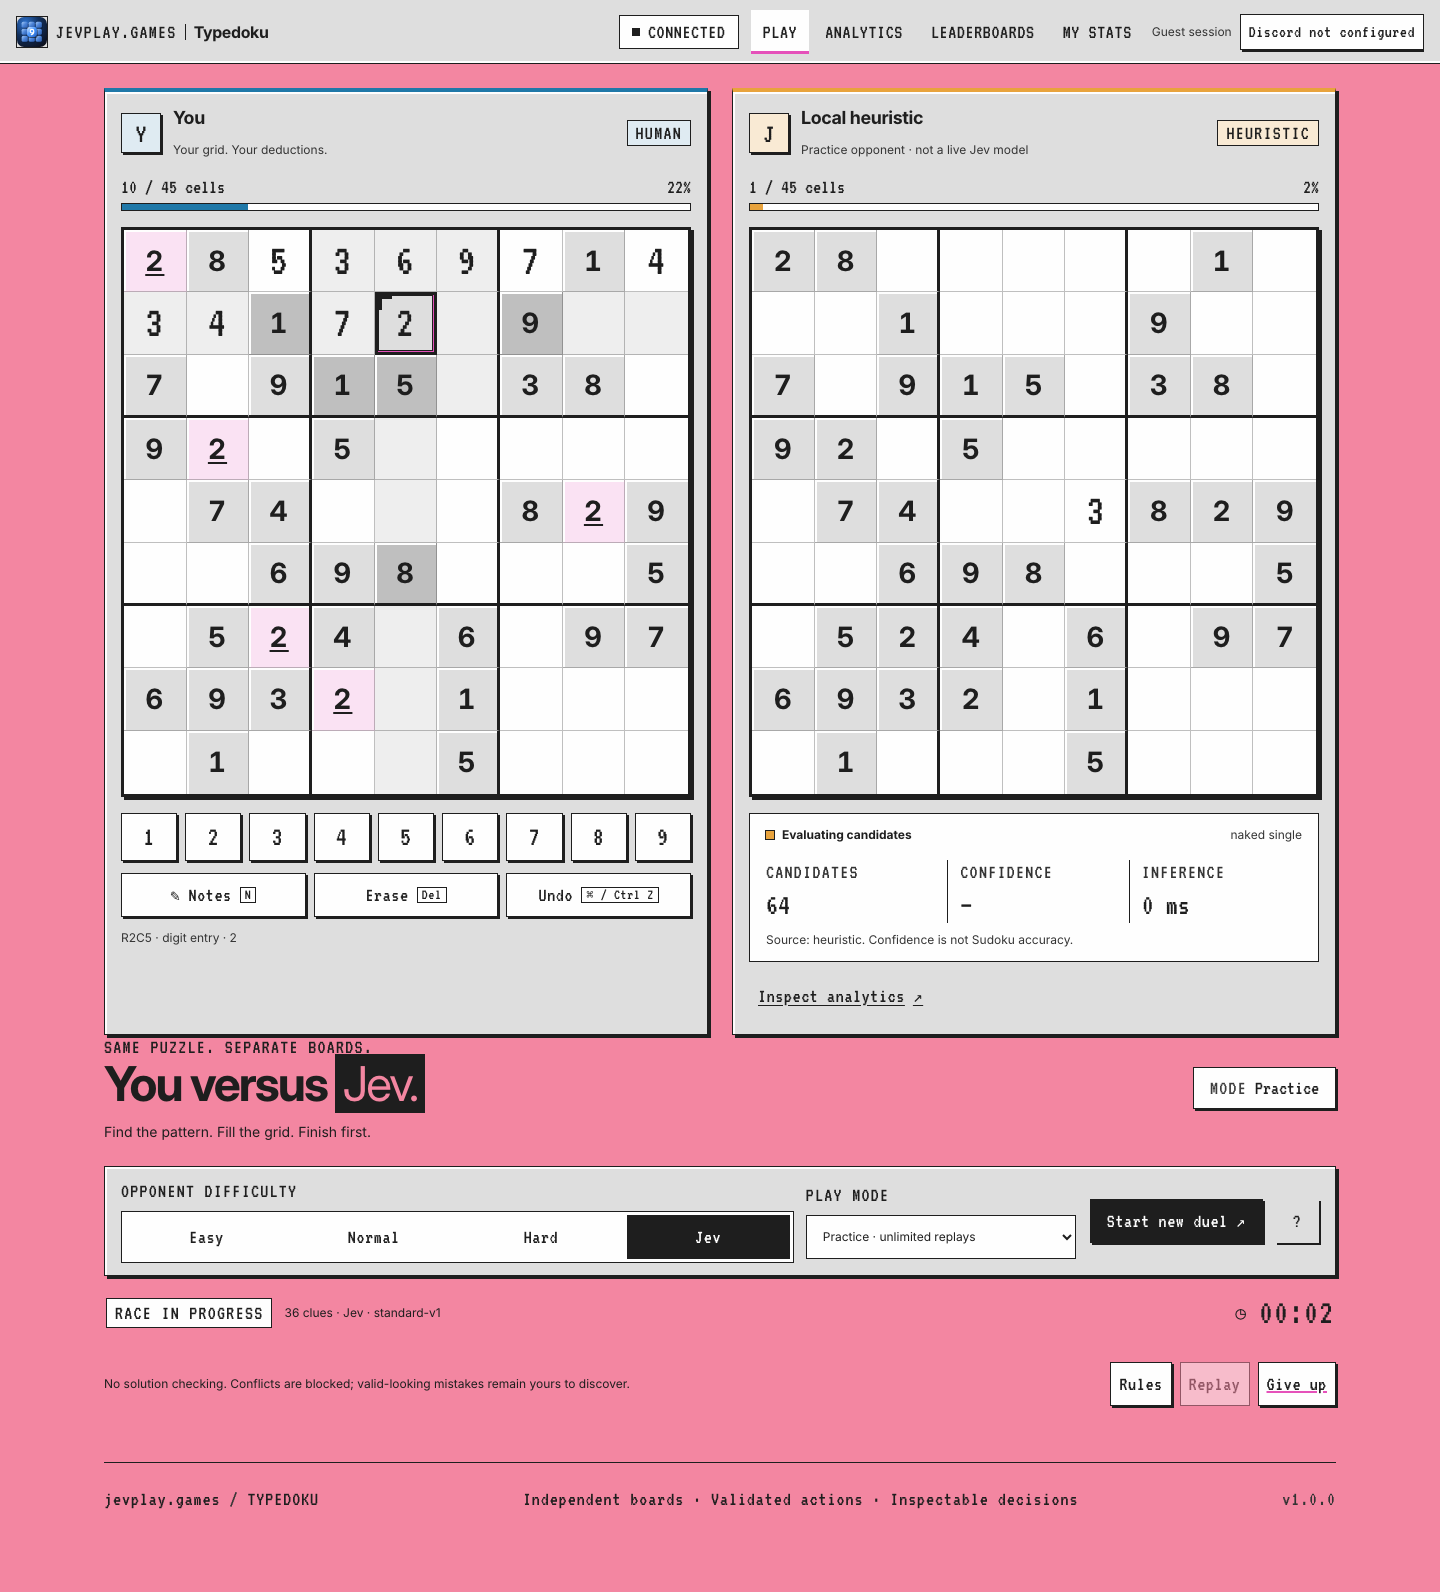
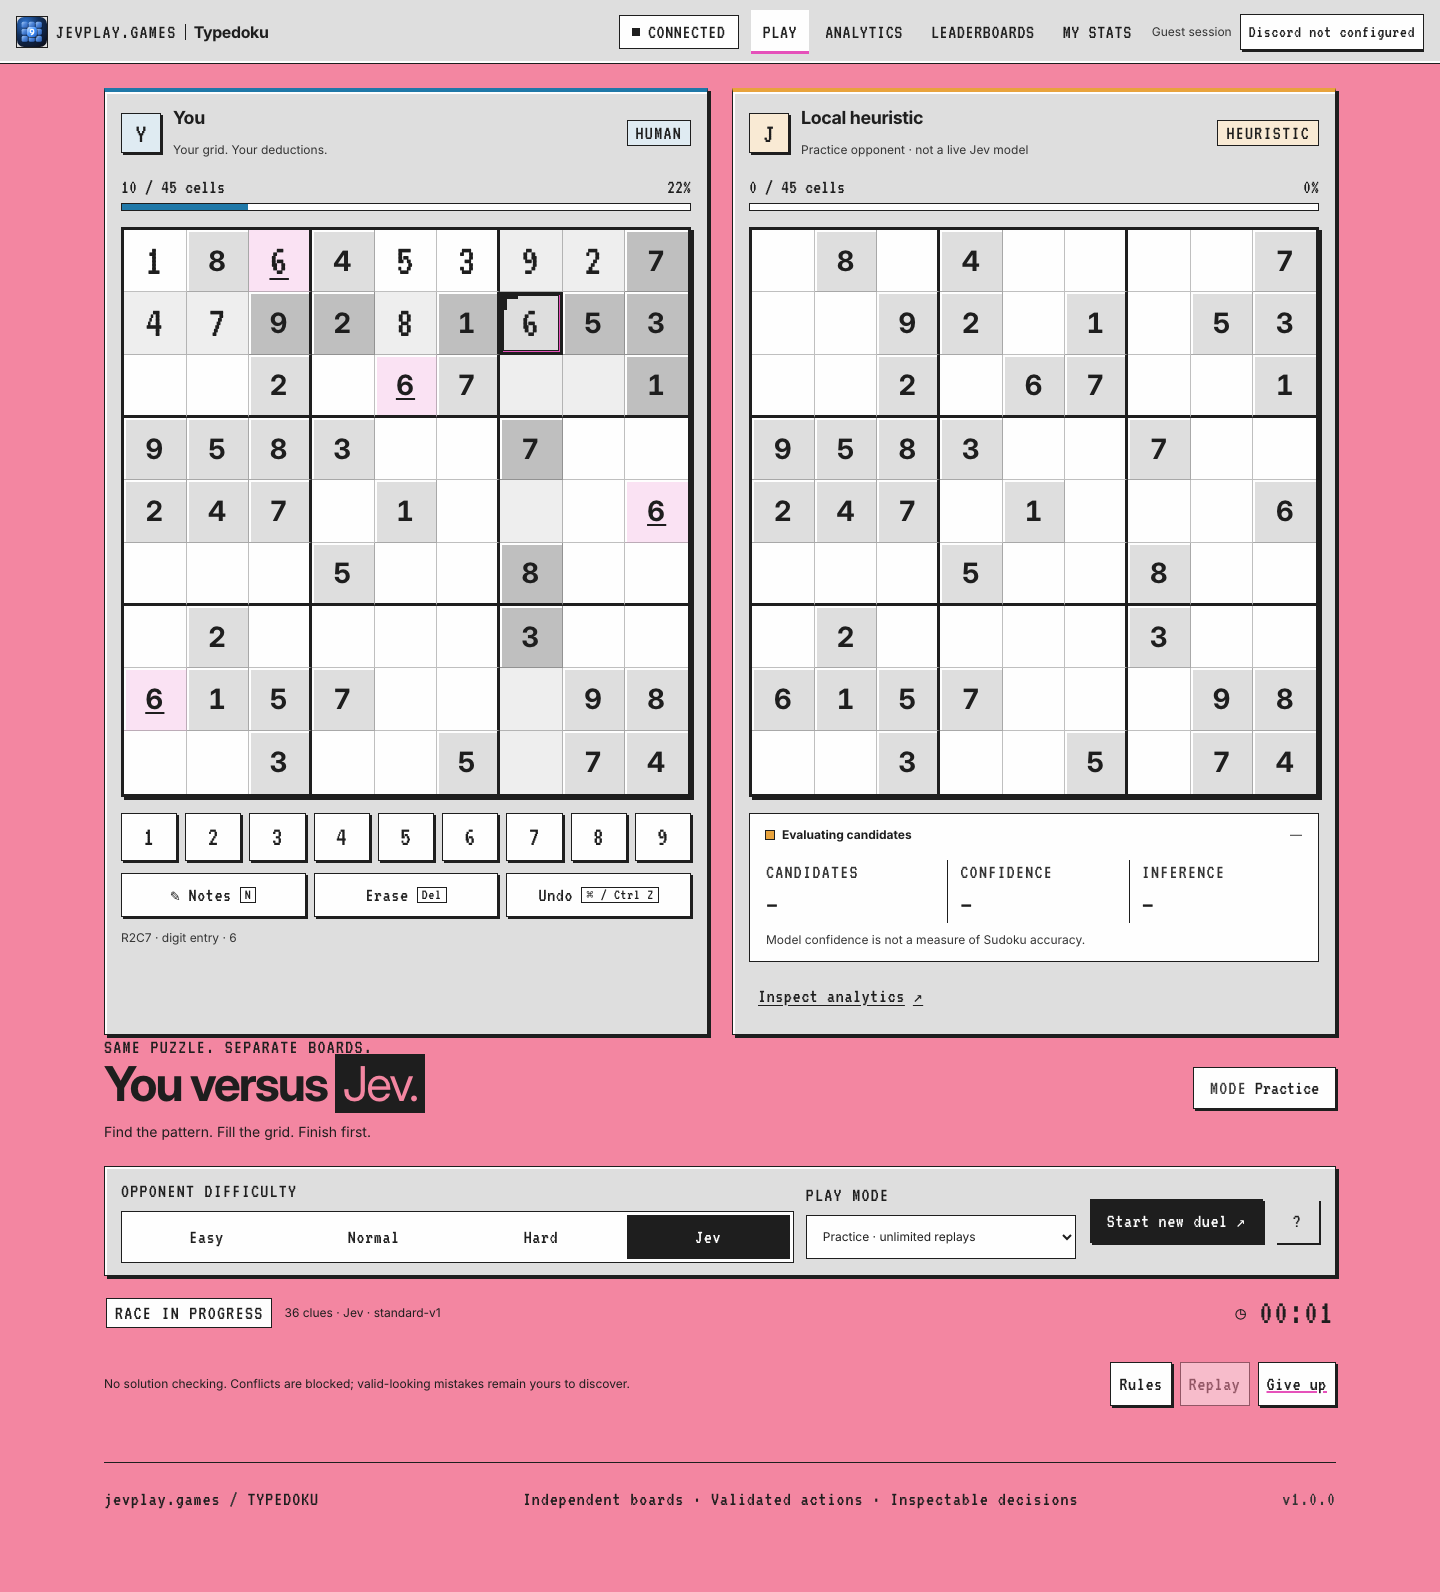
Use the D8 chart colours for every chart series and legend
Orchestrator decision D8 (.rebrand/shared/CHART_COLOURS.md): --chart-human #155A80 and --chart-jev #7A4E0B, defined in
game.css (brand.css untouched). They drive the progress lines, the legend swatches and the heatmap tints. Jev's series stays
dashed; legend and axis text are ink; chart panels are paper windows, never pink. Phone axis labels are enlarged because the
chart's viewBox shrinks to about 0.6 at 390px. Pixel-sampled at 390 and 1440, idle and mid-game: human 7.42:1, Jev 7.13:1,
ink 16.5:1 on the paper panel.

diff --git a/public/game.css b/public/game.css
@@ -7,8 +7,9 @@
   --cell:var(--paper);--cell-given:var(--grey);--cell-line:var(--line-soft);--box-line:var(--ink);
   --cell-peer:color-mix(in srgb,var(--ink) 7%,var(--paper));--cell-given-peer:color-mix(in srgb,var(--ink) 16%,var(--grey));
   --cell-same:color-mix(in srgb,var(--magenta) 16%,var(--paper));
-  /* Chart series on the paper chart window: blue is 4.8:1; raw amber is 2.1:1, so Jev's line is amber deepened with ink (4.5:1). */
-  --chart-human:var(--human);--chart-jev:color-mix(in srgb,var(--jev) 60%,var(--ink));
+  /* Chart series, orchestrator decision D8 (.rebrand/shared/CHART_COLOURS.md): the brand blue/amber fail on grey, so charts use
+     these until the hub brand.css carries them. Jev's series is also dashed; legend text is ink; charts never sit on pink. */
+  --chart-jev:#7A4E0B;--chart-human:#155A80;
   --empty-art:url(/art/empty.svg)
 }
 body{font-size:var(--fs-sm)}button,input,select{font:inherit}
@@ -128,14 +129,16 @@ kbd{font:var(--fs-xs)/1 var(--font-pixel);color:inherit;padding:1px 4px;border:1
 .chart-human{stroke:var(--chart-human);fill:none;stroke-width:3}
 .chart-jev{stroke:var(--chart-jev);fill:none;stroke-width:3;stroke-dasharray:6 3}
 .chart-text{fill:var(--ink);font-family:var(--font-pixel);font-size:var(--fs-sm)}
+/* The chart's 580-unit viewBox shrinks to about 0.6 on a phone; larger user-unit text keeps axis labels near 13px there. */
+@media(max-width:600px){.chart-text{font-size:22px}}
 .chart-legend{display:flex;flex-wrap:wrap;gap:var(--s5);font-size:var(--fs-xs);margin:var(--s2) 0 0;color:var(--ink)}
 .legend-dot{display:inline-block;width:14px;height:4px;background:var(--chart-human);vertical-align:middle;margin-right:var(--s2)}
 .legend-dot.jev{background:linear-gradient(90deg,var(--chart-jev) 0 60%,transparent 60% 100%) 0 0/7px 4px}
 .heatmap{display:grid;grid-template-columns:repeat(9,minmax(0,1fr));gap:2px;max-width:20rem;margin:auto;padding:2px;background:var(--ink);border:1px solid var(--ink)}
 .heatcell{aspect-ratio:1;background:var(--paper);display:grid;place-items:center;border-radius:0;font-family:var(--font-pixel);font-size:var(--fs-md);color:var(--ink)}
-.heat-1{background:color-mix(in srgb,var(--human) 15%,var(--paper))}.heat-2{background:color-mix(in srgb,var(--human) 30%,var(--paper))}
-.heat-3{background:color-mix(in srgb,var(--human) 48%,var(--paper))}
-.heat-4{background:color-mix(in srgb,var(--human) 78%,var(--ink));color:var(--paper)}.heat-5{background:color-mix(in srgb,var(--human) 55%,var(--ink));color:var(--paper)}
+.heat-1{background:color-mix(in srgb,var(--chart-human) 12%,var(--paper))}.heat-2{background:color-mix(in srgb,var(--chart-human) 24%,var(--paper))}
+.heat-3{background:color-mix(in srgb,var(--chart-human) 38%,var(--paper))}
+.heat-4{background:color-mix(in srgb,var(--chart-human) 80%,var(--paper));color:var(--paper)}.heat-5{background:var(--chart-human);color:var(--paper)}
 .metrics-grid{display:grid;grid-template-columns:1fr 1fr;gap:var(--s4)}
 .metric-list{margin:0}.metric-row{display:flex;justify-content:space-between;gap:var(--s5);padding:var(--s2) 0;border-bottom:1px solid var(--line-soft);font-size:var(--fs-xs)}
 .metric-row dt{color:var(--muted)}.metric-row dd{margin:0;font-family:var(--mono);font-size:var(--fs-md);font-variant-numeric:tabular-nums}.metric-row:last-child{border-bottom:0}
